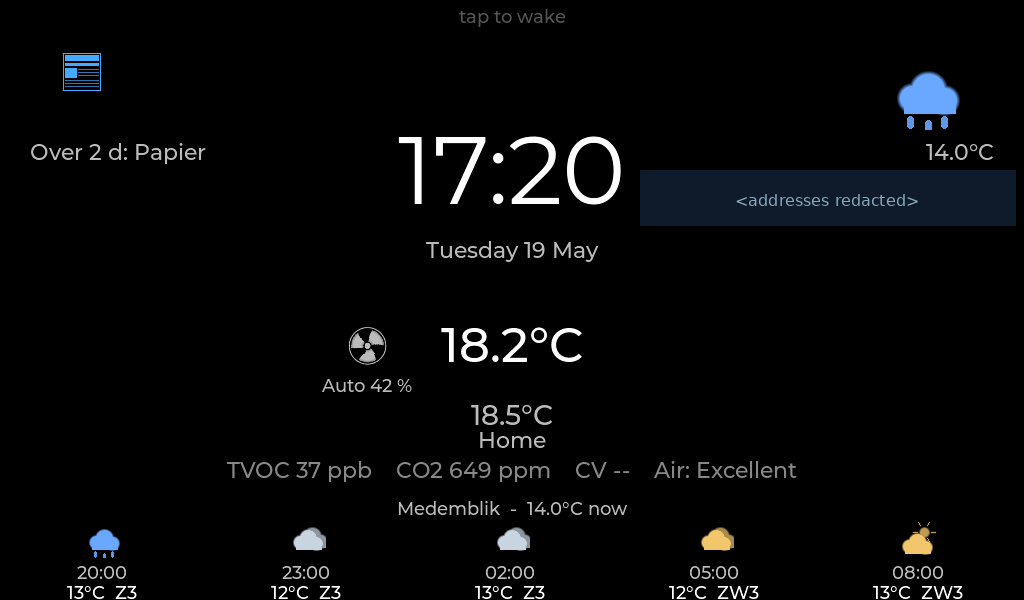
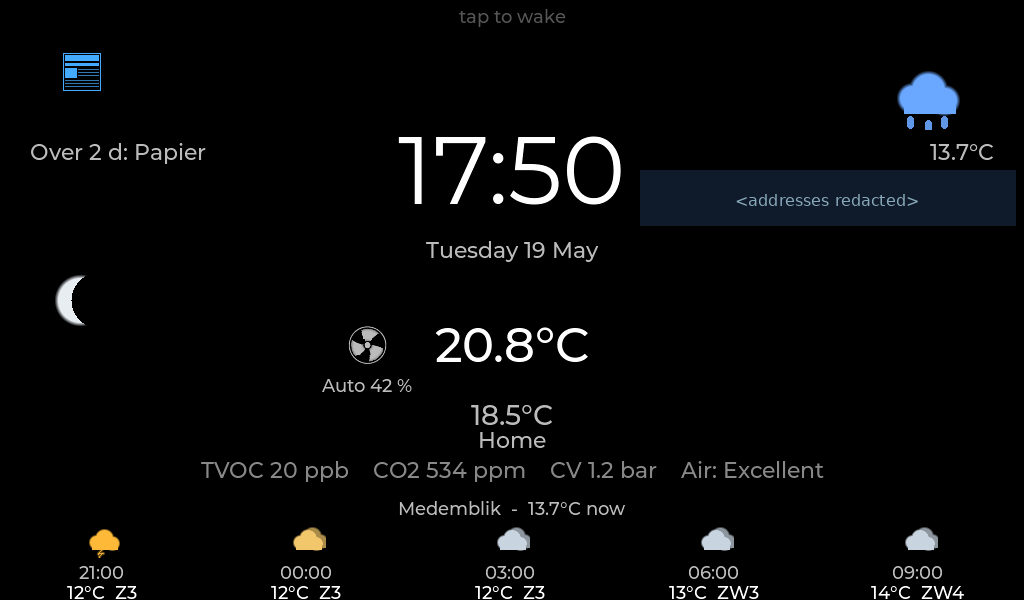
Fix CV pressure: ship bridge-off as default + separate moon-phase widget
Empirical finding (2026-05-19): quby_bridge in the /dev/ttymxc0 path
breaks happ_thermstat ↔ keteladapter framing. With the bridge bypassed
and happ talking direct to the real char-dev:
- otCommError reports 0
- BoilerChPressure flows over BoxTalk
- toonui's dim screen + home tile show live CV reading (1.2-1.4 bar)

Changes:
- settings.c default ot_bridge_mode flipped from "proxy" to "off"
- install.sh drops legacy qbri/p1br inittab rows on (re)install, kills
  any running bridges, and lazy-unmounts /dev/ttymxc0 so happ re-opens
  the real char-dev on its next respawn
- bridge binary is still shipped — users who really want the PWA boiler
  card can re-add the inittab row by hand, with the caveat that pressure
  reporting will go away

Separately: moon-phase widget split out from the weather icon so the
current lunar phase is always visible, independent of the forecast. A
40-px crescent sits next to "Tue dd Mon" on the home heater tile, and
an 80-px version sits on the left side of the dim screen. Phase
selected from the current UTC date (Conway approximation, 8 quantised
slots).

Updated home + dim demo screenshots show live CV pressure, full
integrations panel, and the moon widget. Life360 addresses redacted.

diff --git a/lvgl_ui_recovered/src/screen_home.c b/lvgl_ui_recovered/src/screen_home.c
@@ -41,6 +41,7 @@ static lv_obj_t * lbl_t_humidity;
 static lv_obj_t * lbl_t_ppm;
 static lv_obj_t * lbl_t_tvoc;
 static lv_obj_t * lbl_t_date;
+static lv_obj_t * moon_phase_img;  /* small moon-phase widget next to date */
 static lv_obj_t * lbl_t_aq;
 static lv_obj_t * lbl_waste_date;
 static lv_obj_t * lbl_waste_type;
@@ -699,6 +700,14 @@ static void refresh_cb(lv_timer_t * t) {
         char dt[48];
         strftime(dt, sizeof(dt), "%a %d %b", &tm);
         lv_label_set_text(lbl_t_date, dt);
+    }
+    /* Refresh the moon-phase icon at most once per refresh tick — phase
+     * changes daily, not by-the-second, but keep this cheap: a single
+     * src-swap when the phase slot moves. */
+    if (moon_phase_img) {
+        const lv_img_dsc_t * ph = moon_phase_icon(40);
+        if (lv_img_get_src(moon_phase_img) != ph)
+            lv_img_set_src(moon_phase_img, ph);
     }
 
     if (toon_state.indoor_temp > 0)
@@ -1469,6 +1478,24 @@ lv_obj_t * screen_home_create(void) {
     lv_obj_set_style_text_font(lbl_t_date, &lv_font_montserrat_18, 0);
     lv_label_set_text(lbl_t_date, "");
     lv_obj_align(lbl_t_date, LV_ALIGN_TOP_LEFT, 0, 36);
+
+    /* Moon phase — 40-px icon sitting below the date, just left-of-centre
+     * inside the heater tile. ALWAYS shown so the user sees the current
+     * lunar phase even during the day; the icon is separate from the
+     * forecast band so it doesn't compete with the weather icon. A fixed
+     * pixel position is used (rather than align-to-date-label) because
+     * lv_obj_align_to runs before the label has measured its text width
+     * → the icon ends up clipped behind the clock. */
+    moon_phase_img = lv_img_create(th);
+    lv_img_set_src(moon_phase_img, moon_phase_icon(40));
+    lv_obj_set_style_img_recolor(moon_phase_img, lv_color_hex(0xe8edf2), 0);
+    lv_obj_set_style_img_recolor_opa(moon_phase_img, 255, 0);
+    /* Position: hovering to the right of "Tue 19 May", at clock baseline.
+     * Using lv_obj_align (not lv_obj_set_pos) because the heater tile is
+     * a styled container and set_pos has been observed to clip behind
+     * other children. The 40-px icon spans (148+20, 24+20) → (188+20,
+     * 64+20) inside the padded tile — well clear of the temp number. */
+    lv_obj_align(moon_phase_img, LV_ALIGN_TOP_LEFT, 148, 24);
 
     /* Air-quality badge — top-right of the Heater tile, coloured per
        eCO2/TVOC bucket (green/lime/yellow/orange/red). */

diff --git a/lvgl_ui_recovered/src/screen_dim.c b/lvgl_ui_recovered/src/screen_dim.c
@@ -24,6 +24,7 @@ LV_FONT_DECLARE(lv_font_montserrat_96_custom);
 static lv_obj_t * scr_root = NULL;
 static lv_obj_t * lbl_clock;
 static lv_obj_t * lbl_date;
+static lv_obj_t * dim_moon_img;   /* moon-phase widget — always shown */
 static lv_obj_t * lbl_temp;
 static lv_obj_t * lbl_setpoint;
 static lv_obj_t * lbl_program;
@@ -106,6 +107,12 @@ static void refresh_cb(lv_timer_t * t) {
     char dt[64];
     strftime(dt, sizeof(dt), "%A %d %B", &tm);
     lv_label_set_text(lbl_date, dt);
+
+    if (dim_moon_img) {
+        const lv_img_dsc_t * ph = moon_phase_icon(80);
+        if (lv_img_get_src(dim_moon_img) != ph)
+            lv_img_set_src(dim_moon_img, ph);
+    }
 
     /* Always paint values: if data not yet present, fall back to a
        "wait..." marker instead of leaving the stale "-- C" default. */
@@ -450,6 +457,16 @@ lv_obj_t * screen_dim_create(void) {
     lv_obj_set_style_text_font(lbl_date, &lv_font_montserrat_22, 0);
     lv_label_set_text(lbl_date, "");
     lv_obj_align(lbl_date, LV_ALIGN_CENTER, 0, -50);
+
+    /* Moon phase — large pictogram on the LEFT side of the dim screen
+     * (clear-of the waste tile at top-left). Always-visible regardless
+     * of the weather code, since the lunar phase is independent of
+     * whether tonight happens to be cloudy. */
+    dim_moon_img = lv_img_create(scr_root);
+    lv_img_set_src(dim_moon_img, moon_phase_icon(80));
+    lv_obj_set_style_img_recolor(dim_moon_img, lv_color_hex(0xe8edf2), 0);
+    lv_obj_set_style_img_recolor_opa(dim_moon_img, 255, 0);
+    lv_obj_align(dim_moon_img, LV_ALIGN_LEFT_MID, 40, 0);
 
     lbl_temp = lv_label_create(scr_root);
     lv_obj_set_style_text_color(lbl_temp, lv_color_hex(0xffffff), 0);

diff --git a/lvgl_ui_recovered/src/settings.c b/lvgl_ui_recovered/src/settings.c
@@ -30,7 +30,12 @@ settings_t settings = {
      * https://www.buienradar.nl/weer/medemblik/nl/<ID> reveals it). */
     .weather_location_id = 2757783,
     .forecast_mode       = FORECAST_AUTO,
-    .ot_bridge_mode      = "proxy",
+    /* Default OFF — 2026-05-19 empirical finding: with the bridge in the
+     * /dev/ttymxc0 path, happ_thermstat ↔ keteladapter framing breaks and
+     * BoilerChPressure stops reaching toonui. Direct path (no bridge) =
+     * otCommError=0 + live CV pressure. See
+     * project_quby_bridge_is_the_culprit_2026-05-19 in memory. */
+    .ot_bridge_mode      = "off",
     .otgw_host           = "192.168.99.21",
     .otgw_user           = "",
     .otgw_pass           = "",